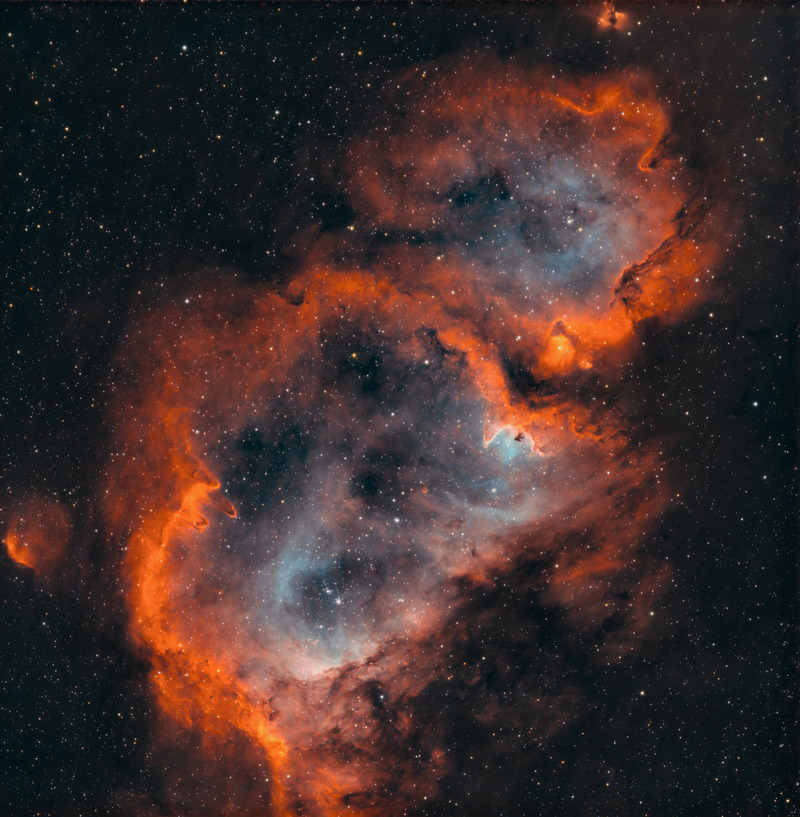
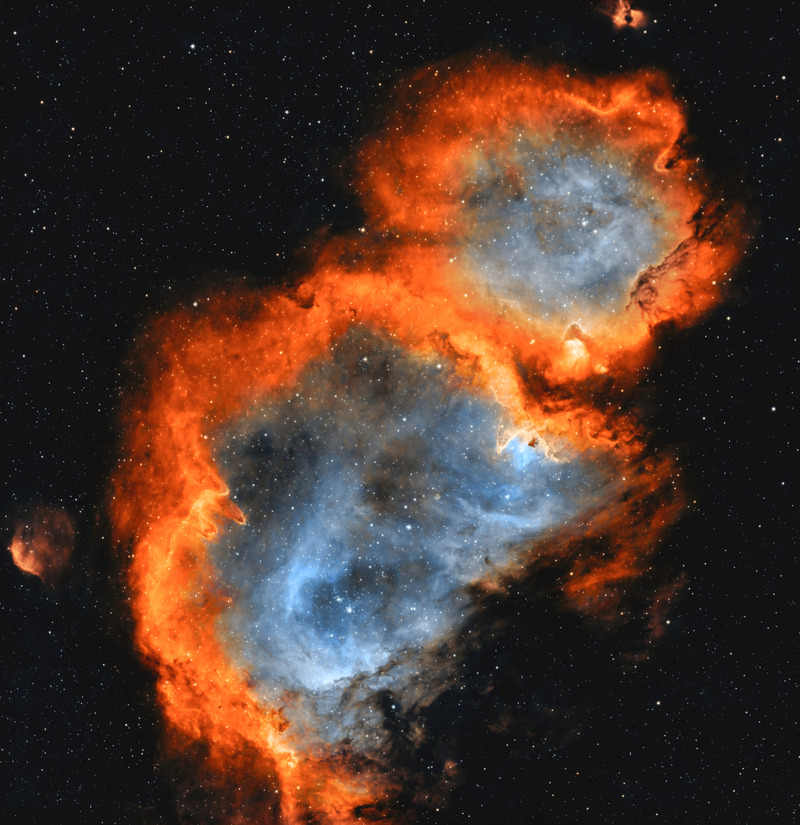
Update the Soul Nebula and add the Eastern Veil to the gallery
The 2026 Soul Nebula (IC 1848) card gets a new processing in a Hubble-style
palette. The original replaces images/soul-nebula.jpg (now 2883x2973), its
responsive derivatives were rebuilt, and the card's dimensions and palette
description were updated to match.

New card for the Eastern Veil (NGC 6992), placed after the featured Tadpoles
card, newest first. The original was a 16-bit PNG; it was converted to JPEG
at quality 100 with no chroma subsampling, keeping its ICC profile, and
archived as images/eastern-veil.jpg. Derivatives were built with
tools/build-images.sh. The gallery filter counts go to 37 overall and 28
nebulae.

diff --git a/index.html b/index.html
@@ -487,8 +487,8 @@
     <p class="section-desc">Every photon in these images crossed the void of space to land on a sensor in a suburban New Jersey backyard. Click any image to explore.</p>
   </div>
   <div class="gallery-filters" role="group" aria-label="Filter the gallery by object type">
-    <button type="button" data-filter="all" aria-pressed="true">All<span class="count">36</span></button>
-    <button type="button" data-filter="nebulae" aria-pressed="false">Nebulae<span class="count">27</span></button>
+    <button type="button" data-filter="all" aria-pressed="true">All<span class="count">37</span></button>
+    <button type="button" data-filter="nebulae" aria-pressed="false">Nebulae<span class="count">28</span></button>
     <button type="button" data-filter="galaxies" aria-pressed="false">Galaxies<span class="count">3</span></button>
     <button type="button" data-filter="clusters" aria-pressed="false">Clusters<span class="count">3</span></button>
     <button type="button" data-filter="solar" aria-pressed="false">Solar System<span class="count">2</span></button>
@@ -509,18 +509,31 @@
       </span>
       <span class="lb-data" data-full="images/opt/tadpoles-2560.webp" data-fallback="images/opt/tadpoles-2560.jpg" data-title="IC 410: Tadpoles Nebula" data-desc="An emission nebula in Auriga featuring distinctive tadpole-shaped structures of gas and dust sculpted by stellar winds from the embedded cluster NGC 1893."></span>
     </button>
+    <button type="button" data-cat="nebulae" class="gallery-item" aria-label="Open NGC 6992: Eastern Veil full size">
+      <picture>
+        <source type="image/webp" srcset="images/opt/eastern-veil-800.webp 800w, images/opt/eastern-veil-1280.webp 1280w, images/opt/eastern-veil-1920.webp 1920w, images/opt/eastern-veil-2560.webp 2560w" sizes="(max-width: 768px) calc(100vw - 48px), (max-width: 1400px) 50vw, 700px">
+        <img src="images/opt/eastern-veil-1280.jpg" srcset="images/opt/eastern-veil-800.jpg 800w, images/opt/eastern-veil-1280.jpg 1280w, images/opt/eastern-veil-1920.jpg 1920w, images/opt/eastern-veil-2560.jpg 2560w" sizes="(max-width: 768px) calc(100vw - 48px), (max-width: 1400px) 50vw, 700px"
+             width="2772" height="2842" loading="lazy" decoding="async" alt="NGC 6992: The Eastern Veil Nebula">
+      </picture>
+      <span class="gallery-overlay">
+        <span class="gallery-name">NGC 6992: Eastern Veil</span>
+        <span class="gallery-meta">Local &middot; Nov 2026</span>
+        <span class="gallery-tag">Supernova Remnant</span>
+      </span>
+      <span class="lb-data" data-full="images/opt/eastern-veil-2560.webp" data-fallback="images/opt/eastern-veil-2560.jpg" data-title="NGC 6992: The Eastern Veil Nebula" data-desc="A closer look at the brightest stretch of the Cygnus Loop, the debris of a star that exploded somewhere between 10,000 and 20,000 years ago about 2,400 light-years away. The blast wave is still plowing into the thin gas between the stars, and where it hits, the gas is heated into the twisted, rope-like filaments that make up this arc. Hydrogen-alpha glows red and doubly ionized oxygen shows as teal; the oxygen traces the sharpest edges of the shock, where the gas has only just been struck, while the hydrogen fills in the cooler, slower-glowing gas behind it. Fainter streamers across the rest of the frame belong to the same expanding shell, which spans about six full moons of sky."></span>
+    </button>
     <button type="button" data-cat="nebulae" class="gallery-item" aria-label="Open IC 1848: Soul Nebula (2026) full size">
       <picture>
         <source type="image/webp" srcset="images/opt/soul-nebula-800.webp 800w, images/opt/soul-nebula-1280.webp 1280w, images/opt/soul-nebula-1920.webp 1920w, images/opt/soul-nebula-2560.webp 2560w" sizes="(max-width: 768px) calc(100vw - 48px), (max-width: 1400px) 50vw, 700px">
         <img src="images/opt/soul-nebula-1280.jpg" srcset="images/opt/soul-nebula-800.jpg 800w, images/opt/soul-nebula-1280.jpg 1280w, images/opt/soul-nebula-1920.jpg 1920w, images/opt/soul-nebula-2560.jpg 2560w" sizes="(max-width: 768px) calc(100vw - 48px), (max-width: 1400px) 50vw, 700px"
-             width="2933" height="2996" loading="lazy" decoding="async" alt="IC 1848: The Soul Nebula">
+             width="2883" height="2973" loading="lazy" decoding="async" alt="IC 1848: The Soul Nebula">
       </picture>
       <span class="gallery-overlay">
         <span class="gallery-name">IC 1848: Soul Nebula</span>
         <span class="gallery-meta">Local &middot; Oct 2026</span>
         <span class="gallery-tag">Emission</span>
       </span>
-      <span class="lb-data" data-full="images/opt/soul-nebula-2560.webp" data-fallback="images/opt/soul-nebula-2560.jpg" data-title="IC 1848: The Soul Nebula" data-desc="The smaller half of the Heart &amp; Soul pair, about 7,500 light-years away in Cassiopeia. A loose cluster of young, massive stars in the middle of the cloud has blown out a series of hollow cavities, and the gas around them is lit by the same radiation that carved them. Along the rims, dense columns of gas and dust point back toward the stars, slowly being eroded &mdash; the bright knots on the left and right edges are where the cloud is still holding out. Shown in a dual-narrowband palette, with hydrogen-alpha in red and orange and doubly ionized oxygen glowing pale blue in the open cavities closest to the hot stars."></span>
+      <span class="lb-data" data-full="images/opt/soul-nebula-2560.webp" data-fallback="images/opt/soul-nebula-2560.jpg" data-title="IC 1848: The Soul Nebula" data-desc="The smaller half of the Heart &amp; Soul pair, about 7,500 light-years away in Cassiopeia. A loose cluster of young, massive stars in the middle of the cloud has blown out a series of hollow cavities, and the gas around them is lit by the same radiation that carved them. Along the rims, dense columns of gas and dust point back toward the stars, slowly being eroded &mdash; the bright knots on the left and right edges are where the cloud is still holding out. Rendered in a Hubble-style palette, with hydrogen-rich gas burning orange along the rims and oxygen glowing blue in the open cavities closest to the hot stars."></span>
     </button>
     <button type="button" data-cat="nebulae" class="gallery-item" aria-label="Open NGC 7023: Iris Nebula full size">
       <picture>
